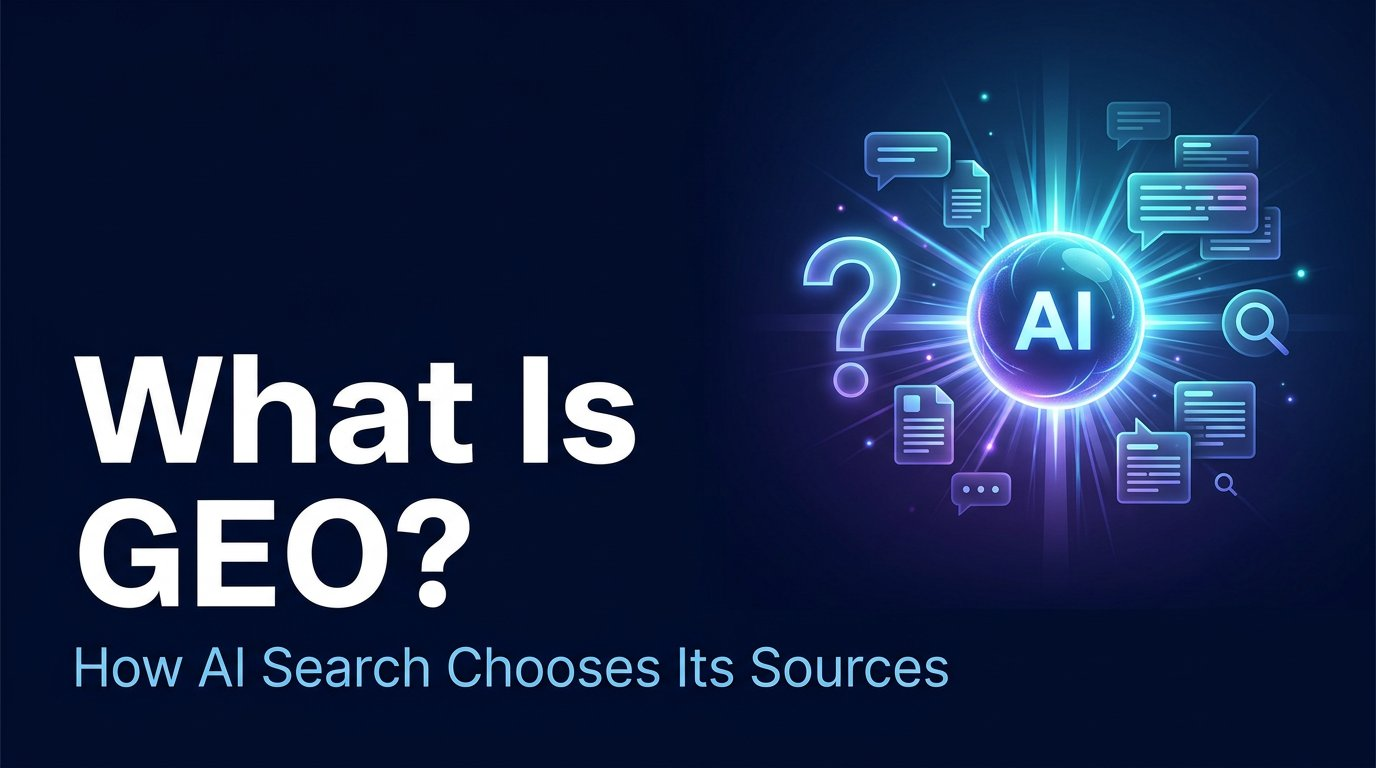
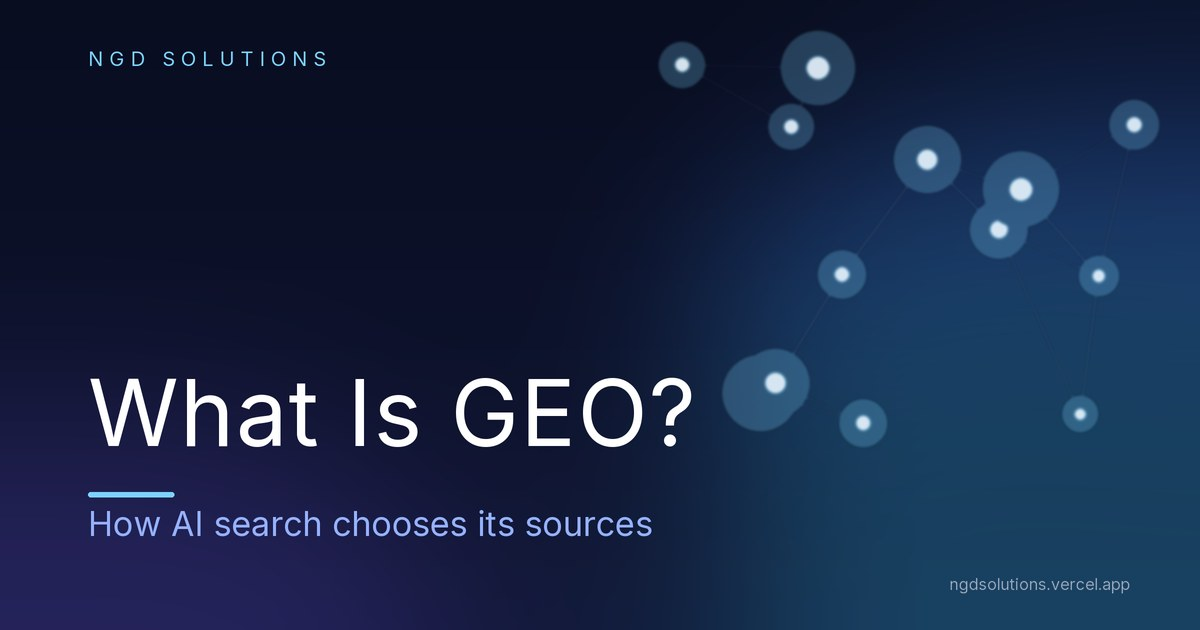
Add professional OG covers for all 9 blog posts
- 8 custom designed covers (Inter typography, dark navy, network motif,
  accent bar) generated programmatically — no AI-image styling
- LLM post now uses the cover image supplied by the site owner
- All 9 published posts now carry og:image + BlogPosting schema coverage

diff --git a/content/blog/free-open-source-ai-tools-2027.md b/content/blog/free-open-source-ai-tools-2027.md
@@ -7,7 +7,7 @@ category: "Artificial Intelligence"
 tags: ["free AI tools 2027", "open source AI tools", "ArtCraft alternatives", "local AI", "AI coding agents", "free creative software", "GitHub AI repositories"]
 author: "NGD Solutions Editorial Team"
 status: "published"
-coverImage: ""
+coverImage: "/images/blog/free-open-source-ai-tools-2027-cover.jpg"
 ---
 
 # Best Free & Open-Source AI Tools in 2027: 17 Creative Apps, Local AI and Developer Tools

diff --git a/content/blog/ai-vs-llm-ai-agents-bots-generative-genetic-agentic-ai.md b/content/blog/ai-vs-llm-ai-agents-bots-generative-genetic-agentic-ai.md
@@ -7,7 +7,7 @@ category: "Artificial Intelligence"
 tags: ["AI vs LLM", "AI agents explained", "chatbot vs AI agent", "generative AI", "genetic algorithm", "agentic AI", "large language models"]
 author: "NGD Solutions Editorial Team"
 status: "published"
-coverImage: ""
+coverImage: "/images/blog/ai-vs-llm-cover.jpg"
 ---
 
 # AI vs LLM vs AI Agents vs Bots: Generative, Genetic and Agentic AI Explained

diff --git a/content/blog/best-ai-tools-2027.md b/content/blog/best-ai-tools-2027.md
@@ -7,7 +7,7 @@ category: "Artificial Intelligence"
 tags: ["best AI tools 2027", "free AI tools", "AI productivity tools", "AI tools for business", "AI software"]
 author: "NGD Solutions Editorial Team"
 status: "published"
-coverImage: ""
+coverImage: "/images/blog/best-ai-tools-2027-cover.jpg"
 ---
 
 # 15 Best AI Tools in 2027 for Work, Research and Creativity

diff --git a/content/blog/ai-automation-small-business-india.md b/content/blog/ai-automation-small-business-india.md
@@ -7,7 +7,7 @@ category: "AI & Automation"
 tags: ["AI automation", "small business India", "business automation", "AI agents"]
 author: "NGD Solutions Editorial Team"
 status: "published"
-coverImage: ""
+coverImage: "/images/blog/ai-automation-small-business-india-cover.jpg"
 ---
 
 # AI Automation for Small Businesses in India: 8 Practical Use Cases

diff --git a/content/blog/website-development-cost-india-2026.md b/content/blog/website-development-cost-india-2026.md
@@ -7,7 +7,7 @@ category: "Web Development"
 tags: ["website development cost", "business website", "web development India", "small business"]
 author: "NGD Solutions Editorial Team"
 status: "published"
-coverImage: ""
+coverImage: "/images/blog/website-development-cost-india-2026-cover.jpg"
 ---
 
 # How Much Does a Website Cost in India in 2026?
